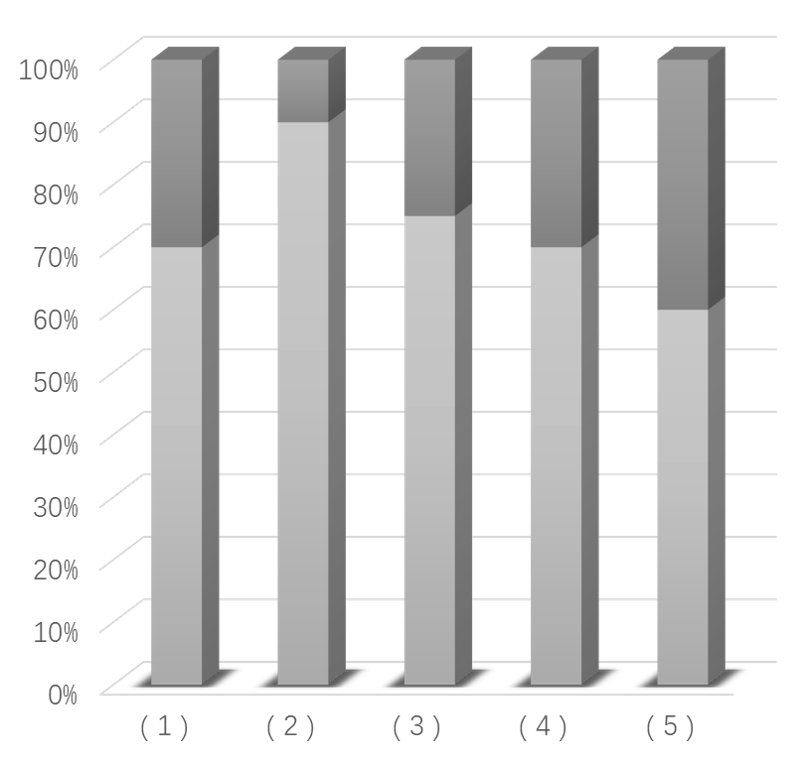
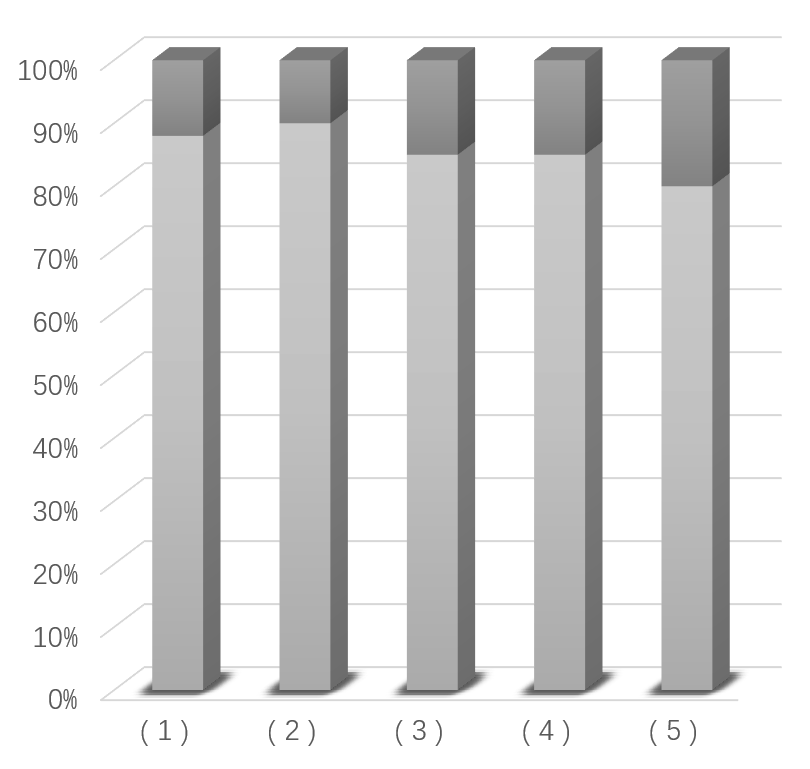
1) alter the self-assessment levels.

diff --git a/index.html b/index.html
@@ -149,11 +149,11 @@
             <div>
               <h5>Self-Assessment</h5>
               <ul>
-                <li><b>( 1 )</b> Learning Ability | 70'<b> ( 1 )</b></li>
+                <li><b>( 1 )</b> Learning Ability | 88'<b> ( 1 )</b></li>
                 <li><b>( 2 )</b> Thirst for Knowledge | 90'<b> ( 2 )</b></li>
-                <li><b>( 3 )</b> Focus | 75'<b> ( 3 )</b></li>
-                <li><b>( 4 )</b> Patience & Perseverance | 70'<b> ( 4 )</b></li>
-                <li><b>( 5 )</b> Communication Skills | 60'<b> ( 5 )</b></li>
+                <li><b>( 3 )</b> Focus | 85'<b> ( 3 )</b></li>
+                <li><b>( 4 )</b> Patience & Perseverance | 85'<b> ( 4 )</b></li>
+                <li><b>( 5 )</b> Communication Skills | 70'<b> ( 5 )</b></li>
               </ul>
             </div>
             <div>

diff --git a/index.cn.html b/index.cn.html
@@ -149,11 +149,11 @@
             <div>
               <h5>自我评估</h5>
               <ul>
-                <li><b>( 1 )</b> 学习能力 | 70'<b> ( 1 )</b></li>
+                <li><b>( 1 )</b> 学习能力 | 88'<b> ( 1 )</b></li>
                 <li><b>( 2 )</b> 求知欲 | 90'<b> ( 2 )</b></li>
-                <li><b>( 3 )</b> 专注力 | 75'<b> ( 3 )</b></li>
-                <li><b>( 4 )</b> 耐心及毅力 | 70'<b> ( 4 )</b></li>
-                <li><b>( 5 )</b> 沟通能力 | 60'<b> ( 5 )</b></li>
+                <li><b>( 3 )</b> 专注力 | 85'<b> ( 3 )</b></li>
+                <li><b>( 4 )</b> 耐心及毅力 | 85'<b> ( 4 )</b></li>
+                <li><b>( 5 )</b> 沟通能力 | 70'<b> ( 5 )</b></li>
               </ul>
             </div>
             <div>
